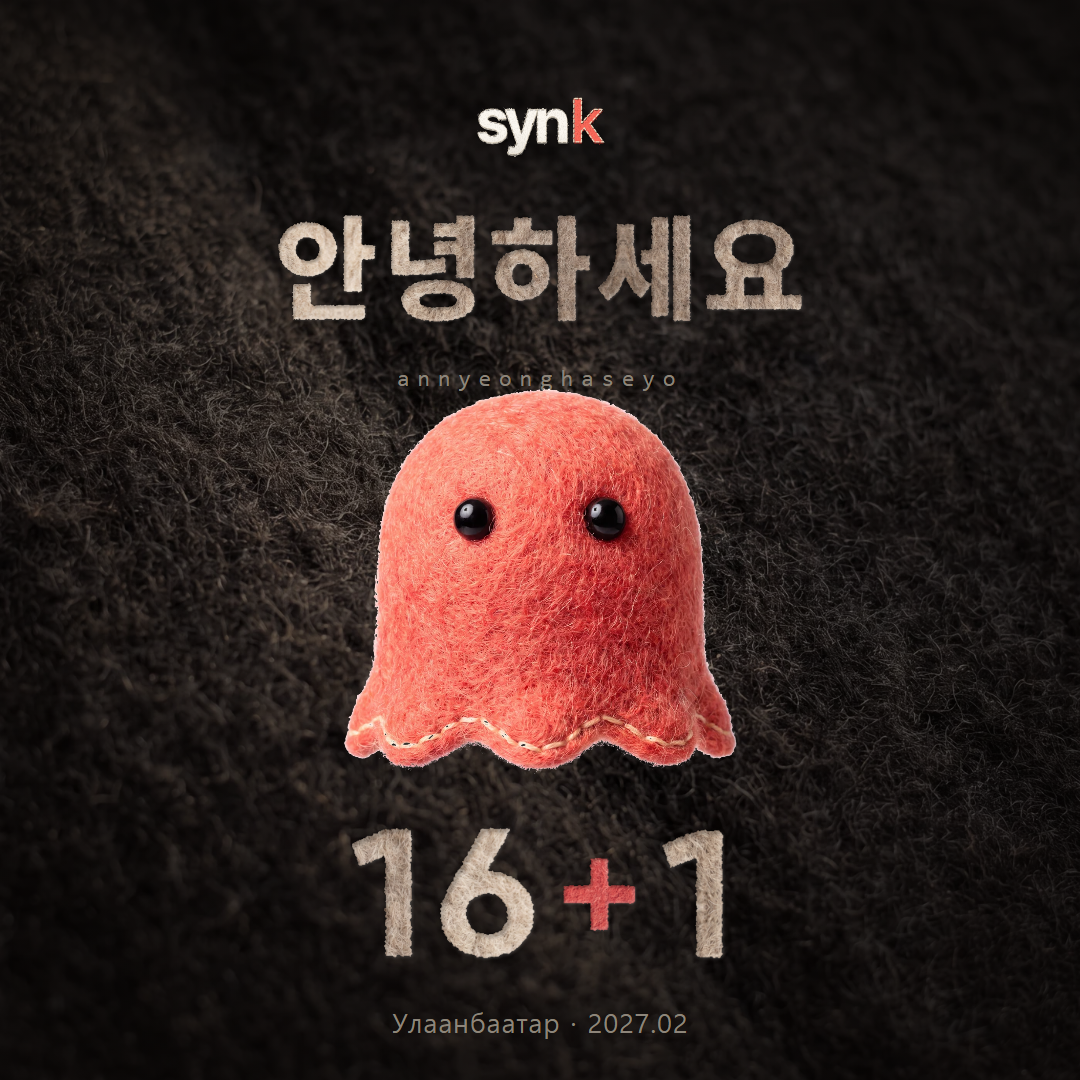
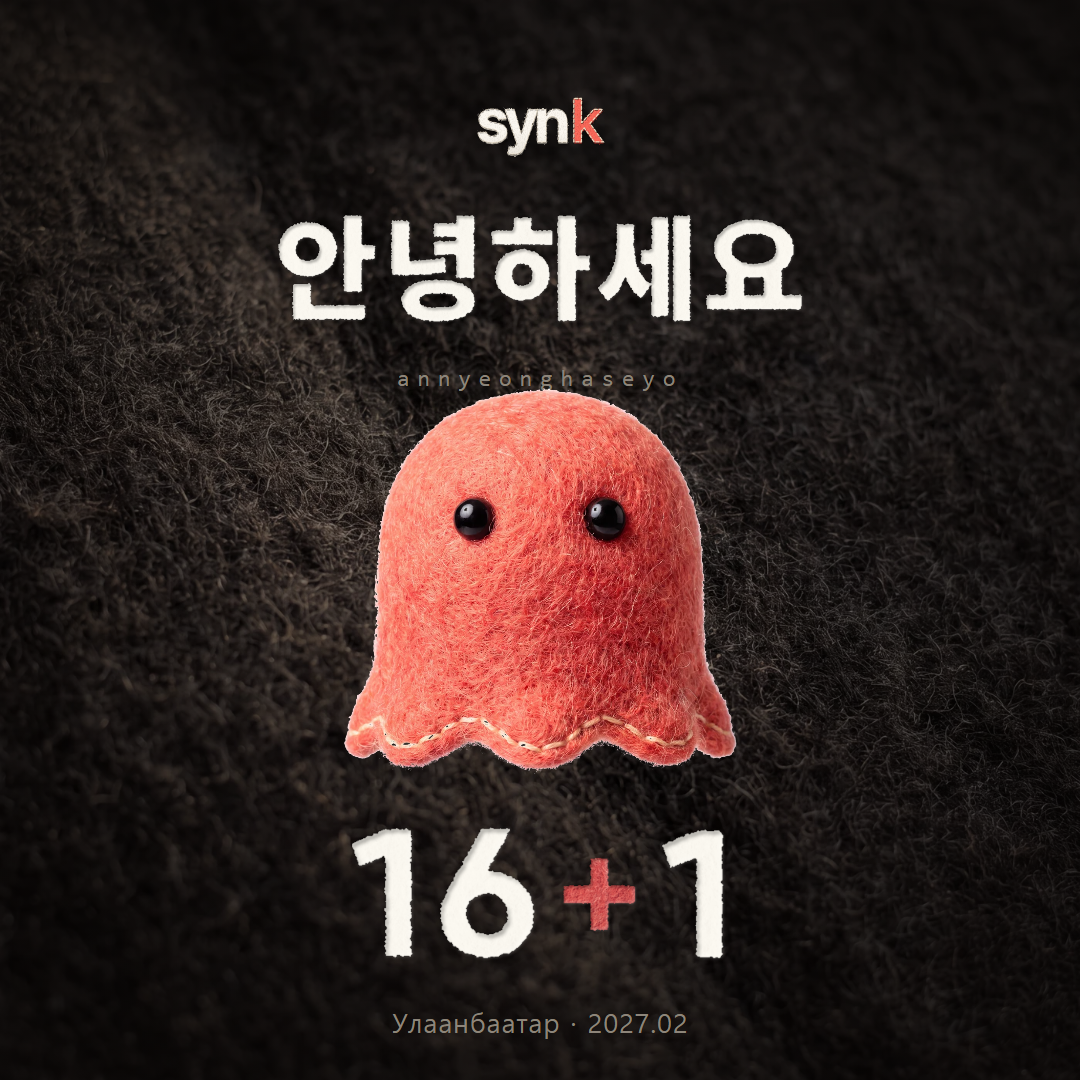
오린 글자의 천을 모래에서 크림 양모로 바꾼다 — 대비 6.0 에서 15.3 으로, 흰 서체와 같아졌다 (유호 지적 09-07)
Session-Id: local_5fa9920f-5c11-4c24-a1ff-0ce38299f259

Changed region(s): [[0.2444, 0.1833, 0.7639, 0.3056], [0.3056, 0.7639, 0.5194, 0.8861], [0.6111, 0.7639, 0.6722, 0.8861]]

diff --git a/tools/FB카드굽기.js b/tools/FB카드굽기.js
@@ -137,7 +137,11 @@ function 지면짓기() {
   /* --몽글 로 다른 판을 물릴 수 있다 — 가장자리 처방을 견줄 때 쓴다(09-07). */
   const 몽글 = 심기(인자['몽글'] || 'docs/캐릭터/정본_4K/몽글_본체.png', 1000);
   /* 인사말은 오려 만든 펠트 글자다. 천은 바탕과 반대로 골라 읽히게 한다. */
-  const 인사천 = 라이트 ? '공방_먹색펠트.avif' : '공방_모래펠트.avif';
+  /* 🔴 글자 천은 «밝기»로 고른다 — 모래펠트로 오렸더니 글자가 묻혔다(유호 지적 09-07
+     「글씨랑 숫자가 강조되는게 좀 죽는것같다」). 실측: 어두운 바탕과의 대비가 흰 서체 15.3 대
+     모래펠트 6.0 으로 절반 아래였다. 크림 양모 펠트(펠트_종이바탕)는 250,247,239 라
+     흰 서체와 «같은» 15.3 이 나온다 — 재질은 펠트로 두고 또렷함만 되찾는 자리다. */
+  const 인사천 = 라이트 ? '공방_먹색펠트.avif' : '펠트_종이바탕.webp';
   /* 🔑 자간 0.05 — 보풀이 획 밖으로 번져서, 폰트가 알맞다고 보는 간격이 펠트에서는 붙어
      보인다(09-07 첫 판에서 「녕」 받침이 「하」에 닿았다). */
   const 인사 = 펠트글자('안녕하세요', 인사천, 200, 0.05);
